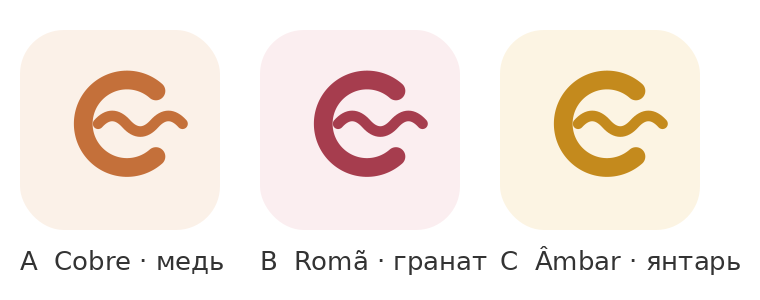
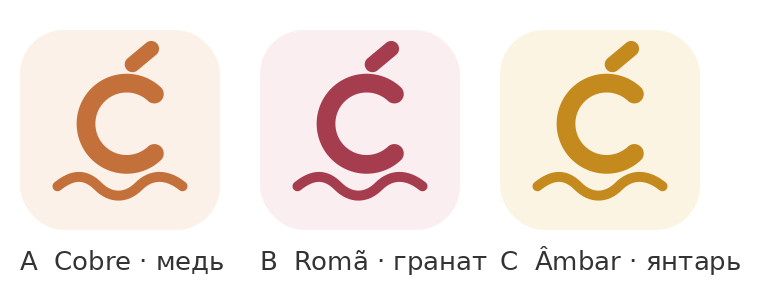
nCp Cápsula · значок: Cá + волна снизу (решение Игоря 28.10), перегенерены иконки и OG
Claude-Session: https://claude.ai/code/session_01VKHYpgQA9JsA1U4Zcs64iT

diff --git a/capsula/ru/index.html b/capsula/ru/index.html
@@ -30,7 +30,7 @@
 <link rel="preconnect" href="https://fonts.googleapis.com">
 <link rel="preconnect" href="https://fonts.gstatic.com" crossorigin>
 <link href="https://fonts.googleapis.com/css2?family=Manrope:wght@400;600;700;800&family=Spectral:wght@600&display=swap" rel="stylesheet">
-<link rel="stylesheet" href="/capsula/engine.css?v=202610281141">
+<link rel="stylesheet" href="/capsula/engine.css?v=202610281153">
 <script>try{var t=new URLSearchParams(location.search).get('theme')||localStorage.getItem('capsula.theme')||(matchMedia('(prefers-color-scheme: light)').matches?'light':'dark');document.documentElement.dataset.theme=t}catch(e){}</script>
 <script type="application/ld+json">{"@context": "https://schema.org", "@type": "WebApplication", "name": "Cápsula", "url": "https://seedwave.pt/capsula/ru/", "inLanguage": "ru", "applicationCategory": "HealthApplication", "operatingSystem": "Any", "description": "Память, концентрация, сон, страх инсульта. Четыре нажатия, ничего не печатать — и у тебя понятный профиль и план на неделю. Бесплатно, без регистрации, ничего не хранится.", "offers": {"@type": "Offer", "price": "0", "priceCurrency": "EUR"}, "author": {"@type": "Person", "name": "Igor Kartuzov", "url": "https://www.linkedin.com/in/igor-kartuzov/"}, "publisher": {"@type": "Organization", "name": "SeedWave", "url": "https://seedwave.pt/"}}</script>
 </head>
@@ -69,7 +69,7 @@
   <footer class="sw">© <span id="year">2026</span> <a id="hubLink" href="https://seedwave.pt/hub/?lang=ru">SeedWave</a> · <a href="https://www.linkedin.com/in/igor-kartuzov/" target="_blank" rel="noopener">Igor Kartuzov</a></footer>
 </div>
 <div class="toast" id="toast" role="status" aria-live="polite"></div>
-<script defer src="/capsula/engine.js?v=202610281141"></script>
+<script defer src="/capsula/engine.js?v=202610281153"></script>
 <script defer src="https://seedwave.pt/nav/sw.js"></script>
 <!-- Cloudflare Web Analytics --><script defer src='https://static.cloudflareinsights.com/beacon.min.js' data-cf-beacon='{"token": "8a509477310442638b80e4b22319b89b"}'></script><!-- End Cloudflare Web Analytics -->
 </body>

diff --git a/capsula/de/index.html b/capsula/de/index.html
@@ -30,7 +30,7 @@
 <link rel="preconnect" href="https://fonts.googleapis.com">
 <link rel="preconnect" href="https://fonts.gstatic.com" crossorigin>
 <link href="https://fonts.googleapis.com/css2?family=Manrope:wght@400;600;700;800&family=Spectral:wght@600&display=swap" rel="stylesheet">
-<link rel="stylesheet" href="/capsula/engine.css?v=202610281141">
+<link rel="stylesheet" href="/capsula/engine.css?v=202610281153">
 <script>try{var t=new URLSearchParams(location.search).get('theme')||localStorage.getItem('capsula.theme')||(matchMedia('(prefers-color-scheme: light)').matches?'light':'dark');document.documentElement.dataset.theme=t}catch(e){}</script>
 <script type="application/ld+json">{"@context": "https://schema.org", "@type": "WebApplication", "name": "Cápsula", "url": "https://seedwave.pt/capsula/de/", "inLanguage": "de", "applicationCategory": "HealthApplication", "operatingSystem": "Any", "description": "Gedächtnis, Konzentration, Schlaf, Angst vor Schlaganfall. Vier Tipps, nichts tippen — und du bekommst ein klares Profil und einen Plan für die Woche. Kostenlos, ohne Anmeldung, nichts wird gespeichert.", "offers": {"@type": "Offer", "price": "0", "priceCurrency": "EUR"}, "author": {"@type": "Person", "name": "Igor Kartuzov", "url": "https://www.linkedin.com/in/igor-kartuzov/"}, "publisher": {"@type": "Organization", "name": "SeedWave", "url": "https://seedwave.pt/"}}</script>
 </head>
@@ -69,7 +69,7 @@
   <footer class="sw">© <span id="year">2026</span> <a id="hubLink" href="https://seedwave.pt/hub/?lang=de">SeedWave</a> · <a href="https://www.linkedin.com/in/igor-kartuzov/" target="_blank" rel="noopener">Igor Kartuzov</a></footer>
 </div>
 <div class="toast" id="toast" role="status" aria-live="polite"></div>
-<script defer src="/capsula/engine.js?v=202610281141"></script>
+<script defer src="/capsula/engine.js?v=202610281153"></script>
 <script defer src="https://seedwave.pt/nav/sw.js"></script>
 <!-- Cloudflare Web Analytics --><script defer src='https://static.cloudflareinsights.com/beacon.min.js' data-cf-beacon='{"token": "8a509477310442638b80e4b22319b89b"}'></script><!-- End Cloudflare Web Analytics -->
 </body>

diff --git a/capsula/es/index.html b/capsula/es/index.html
@@ -30,7 +30,7 @@
 <link rel="preconnect" href="https://fonts.googleapis.com">
 <link rel="preconnect" href="https://fonts.gstatic.com" crossorigin>
 <link href="https://fonts.googleapis.com/css2?family=Manrope:wght@400;600;700;800&family=Spectral:wght@600&display=swap" rel="stylesheet">
-<link rel="stylesheet" href="/capsula/engine.css?v=202610281141">
+<link rel="stylesheet" href="/capsula/engine.css?v=202610281153">
 <script>try{var t=new URLSearchParams(location.search).get('theme')||localStorage.getItem('capsula.theme')||(matchMedia('(prefers-color-scheme: light)').matches?'light':'dark');document.documentElement.dataset.theme=t}catch(e){}</script>
 <script type="application/ld+json">{"@context": "https://schema.org", "@type": "WebApplication", "name": "Cápsula", "url": "https://seedwave.pt/capsula/es/", "inLanguage": "es", "applicationCategory": "HealthApplication", "operatingSystem": "Any", "description": "Memoria, concentración, sueño, miedo al ictus. Cuatro toques, sin escribir nada — y recibes un perfil claro y un plan para la semana. Gratis, sin registro, no se guarda nada.", "offers": {"@type": "Offer", "price": "0", "priceCurrency": "EUR"}, "author": {"@type": "Person", "name": "Igor Kartuzov", "url": "https://www.linkedin.com/in/igor-kartuzov/"}, "publisher": {"@type": "Organization", "name": "SeedWave", "url": "https://seedwave.pt/"}}</script>
 </head>
@@ -69,7 +69,7 @@
   <footer class="sw">© <span id="year">2026</span> <a id="hubLink" href="https://seedwave.pt/hub/?lang=es">SeedWave</a> · <a href="https://www.linkedin.com/in/igor-kartuzov/" target="_blank" rel="noopener">Igor Kartuzov</a></footer>
 </div>
 <div class="toast" id="toast" role="status" aria-live="polite"></div>
-<script defer src="/capsula/engine.js?v=202610281141"></script>
+<script defer src="/capsula/engine.js?v=202610281153"></script>
 <script defer src="https://seedwave.pt/nav/sw.js"></script>
 <!-- Cloudflare Web Analytics --><script defer src='https://static.cloudflareinsights.com/beacon.min.js' data-cf-beacon='{"token": "8a509477310442638b80e4b22319b89b"}'></script><!-- End Cloudflare Web Analytics -->
 </body>

diff --git a/capsula/index.html b/capsula/index.html
@@ -30,7 +30,7 @@
 <link rel="preconnect" href="https://fonts.googleapis.com">
 <link rel="preconnect" href="https://fonts.gstatic.com" crossorigin>
 <link href="https://fonts.googleapis.com/css2?family=Manrope:wght@400;600;700;800&family=Spectral:wght@600&display=swap" rel="stylesheet">
-<link rel="stylesheet" href="/capsula/engine.css?v=202610281141">
+<link rel="stylesheet" href="/capsula/engine.css?v=202610281153">
 <script>try{var t=new URLSearchParams(location.search).get('theme')||localStorage.getItem('capsula.theme')||(matchMedia('(prefers-color-scheme: light)').matches?'light':'dark');document.documentElement.dataset.theme=t}catch(e){}</script>
 <script type="application/ld+json">{"@context": "https://schema.org", "@type": "WebApplication", "name": "Cápsula", "url": "https://seedwave.pt/capsula/", "inLanguage": "pt", "applicationCategory": "HealthApplication", "operatingSystem": "Any", "description": "Memória, concentração, sono, medo do AVC. Quatro toques, sem escrever nada — e recebes um perfil claro e um plano para a semana. Grátis, sem registo, nada é guardado.", "offers": {"@type": "Offer", "price": "0", "priceCurrency": "EUR"}, "author": {"@type": "Person", "name": "Igor Kartuzov", "url": "https://www.linkedin.com/in/igor-kartuzov/"}, "publisher": {"@type": "Organization", "name": "SeedWave", "url": "https://seedwave.pt/"}}</script>
 </head>
@@ -69,7 +69,7 @@
   <footer class="sw">© <span id="year">2026</span> <a id="hubLink" href="https://seedwave.pt/hub/?lang=pt">SeedWave</a> · <a href="https://www.linkedin.com/in/igor-kartuzov/" target="_blank" rel="noopener">Igor Kartuzov</a></footer>
 </div>
 <div class="toast" id="toast" role="status" aria-live="polite"></div>
-<script defer src="/capsula/engine.js?v=202610281141"></script>
+<script defer src="/capsula/engine.js?v=202610281153"></script>
 <script defer src="https://seedwave.pt/nav/sw.js"></script>
 <!-- Cloudflare Web Analytics --><script defer src='https://static.cloudflareinsights.com/beacon.min.js' data-cf-beacon='{"token": "8a509477310442638b80e4b22319b89b"}'></script><!-- End Cloudflare Web Analytics -->
 </body>

diff --git a/capsula/en/index.html b/capsula/en/index.html
@@ -30,7 +30,7 @@
 <link rel="preconnect" href="https://fonts.googleapis.com">
 <link rel="preconnect" href="https://fonts.gstatic.com" crossorigin>
 <link href="https://fonts.googleapis.com/css2?family=Manrope:wght@400;600;700;800&family=Spectral:wght@600&display=swap" rel="stylesheet">
-<link rel="stylesheet" href="/capsula/engine.css?v=202610281141">
+<link rel="stylesheet" href="/capsula/engine.css?v=202610281153">
 <script>try{var t=new URLSearchParams(location.search).get('theme')||localStorage.getItem('capsula.theme')||(matchMedia('(prefers-color-scheme: light)').matches?'light':'dark');document.documentElement.dataset.theme=t}catch(e){}</script>
 <script type="application/ld+json">{"@context": "https://schema.org", "@type": "WebApplication", "name": "Cápsula", "url": "https://seedwave.pt/capsula/en/", "inLanguage": "en", "applicationCategory": "HealthApplication", "operatingSystem": "Any", "description": "Memory, focus, sleep, fear of stroke. Four taps, nothing to type — and you get a clear profile and a plan for the week. Free, no sign-up, nothing is stored.", "offers": {"@type": "Offer", "price": "0", "priceCurrency": "EUR"}, "author": {"@type": "Person", "name": "Igor Kartuzov", "url": "https://www.linkedin.com/in/igor-kartuzov/"}, "publisher": {"@type": "Organization", "name": "SeedWave", "url": "https://seedwave.pt/"}}</script>
 </head>
@@ -69,7 +69,7 @@
   <footer class="sw">© <span id="year">2026</span> <a id="hubLink" href="https://seedwave.pt/hub/?lang=en">SeedWave</a> · <a href="https://www.linkedin.com/in/igor-kartuzov/" target="_blank" rel="noopener">Igor Kartuzov</a></footer>
 </div>
 <div class="toast" id="toast" role="status" aria-live="polite"></div>
-<script defer src="/capsula/engine.js?v=202610281141"></script>
+<script defer src="/capsula/engine.js?v=202610281153"></script>
 <script defer src="https://seedwave.pt/nav/sw.js"></script>
 <!-- Cloudflare Web Analytics --><script defer src='https://static.cloudflareinsights.com/beacon.min.js' data-cf-beacon='{"token": "8a509477310442638b80e4b22319b89b"}'></script><!-- End Cloudflare Web Analytics -->
 </body>
